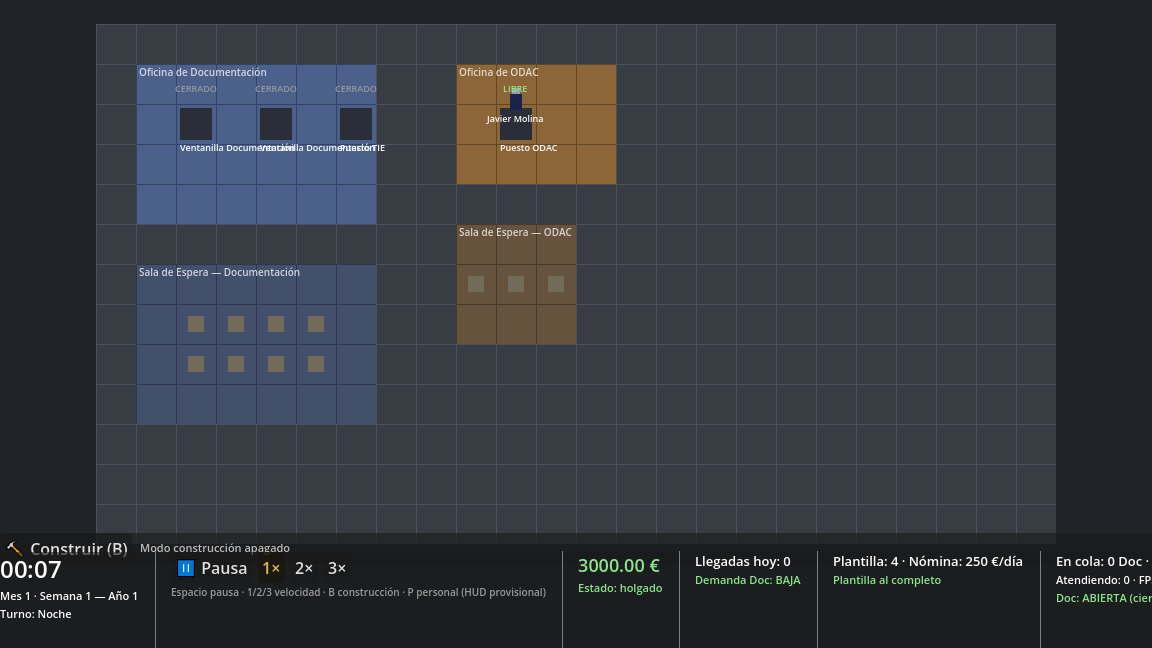
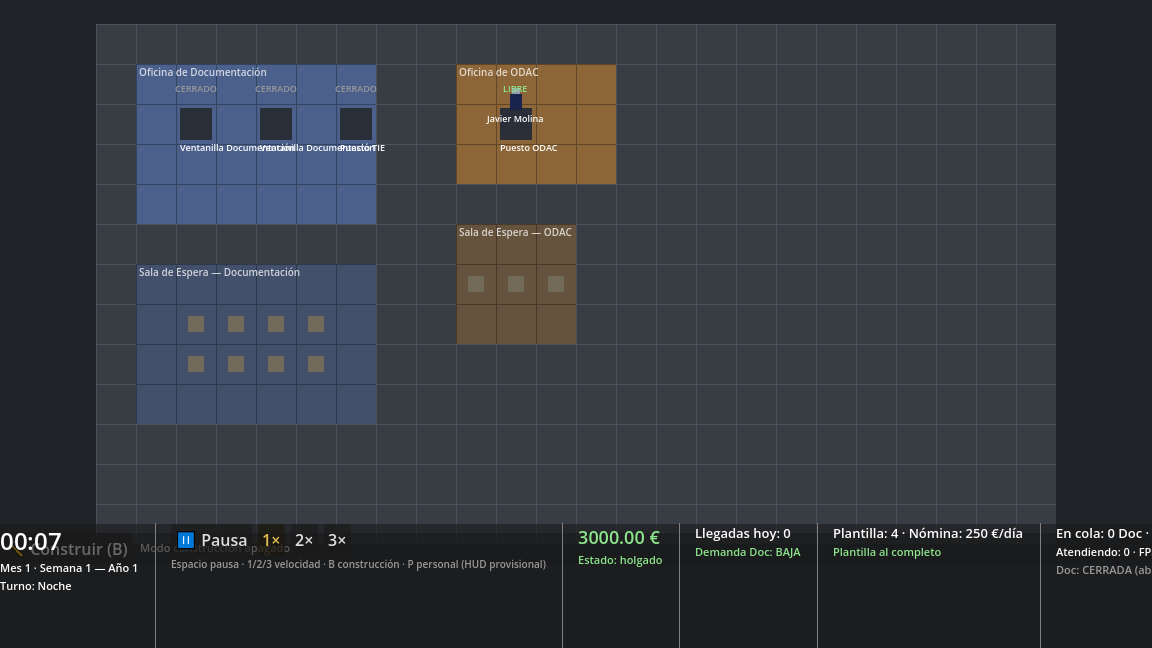
docs(sesion): estado del epic Documentacion 4/5 + hallazgo del perfil de tarde

Changed region(s): [[0.0, 0.8025, 1.0, 0.9568]]

diff --git a/production/session-state/active.md b/production/session-state/active.md
@@ -1,11 +1,11 @@
 # Estado de sesión — activo
 
-*Última actualización: 2026-07-25*
+*Última actualización: 2026-07-26*
 
 <!-- STATUS -->
 Epic: Documentación #8 (capa Feature — Sprint 3)
 Feature: Horario configurable + peonada
-Task: C3-6 crear stories → C3-7 implementar (migrar el horario desde Flujo)
+Task: C3-7 implementado 4/5 · falta sign-off del panel (005) → C3-8 demo → C3-9 cierre
 <!-- /STATUS -->
 
 ## 🎉🎉🎉 HITO — GATE Pre-Production → **PRODUCTION** (2026-07-22)
@@ -1501,3 +1501,50 @@ Economía (regla propiedad/E7/F1/interacciones/deps/OpenQ1 actualizados). Nuevos
 <!-- CONSISTENCY-CHECK: 2026-07-21 | GDDs checked: 9 (+odac) | Conflicts found: 6 stale (propagados) | Verdict: PASS (tras propagar) -->
 ✅ `/consistency-check` (2026-07-21, 7ª): **PASS tras propagar**. Cerrado ODAC #9 (9/12). El cambio de ancla ODAC (dur. media 28→**29,75≈30**, throughput 34→**32**, cap 137→**128**) dejó **6 referencias obsoletas** que la skill cazó y se **propagaron**: Flujo F3 (4×32=128), Demanda F5 + AC-DM12 (128), ODAC Tuning (128), Datos F8 (960/30≈32) + AC-D12 (≈30→128). Nueva constante **`mult_nocturno_odac`** (0.5, escalable) registrada (source Demanda; ref Demanda/ODAC/Tiempo) y sustituye el "~10 fijo". Mezcla ODAC F3 = 13 tipos (Σ=1.0). Registro `last_updated`→2026-07-21. Grep final: 0 restos de 137/34/28 en GDD/registro. **9 GDD consistentes.**
 <!-- QA-PLAN: 2026-07-24 | System: sprint-2 (Construccion+Flujo) | Plan written: production/qa/qa-plan-sprint-2.md -->
+
+---
+
+## 🕐 EPIC DOCUMENTACIÓN #8 — 4/5 STORIES CERRADAS + PANEL EN VENTANA (2026-07-26, sesión Opus 5)
+
+**Suite 485/485, exit 0** (423 → 485, +62). Arranque headless limpio. Todo commiteado (`82c78b1`).
+**C3-6 HECHA** (5 stories escritas, commit `8d4fd2f`) · **C3-7 casi hecha** (falta el sign-off de la 005).
+
+- **001 · El servicio y su reloj** (commit `9039110`) — `src/feature/documentacion/` (2º sistema de la
+  capa Feature): F3 última admisión, F1 pura de horas extra, `estado_servicio` (abierto/cerrando/
+  cerrado), tope de la División y la política de cita (MVP sin cita). Config `.tres` con 6 knobs.
+  22 tests. *El test cazó una expectativa mía mal calculada, no un fallo del código.*
+- **002 · 🚚 LA MUDANZA** (commit `0879d28`) — **la deuda del Sprint 2 está saldada**: el horario ya no
+  vive prestado en Flujo. Documentación lo POSEE, Flujo lo EJECUTA (`fijar_horario_doc`) y Demanda lo
+  RESPETA (`fijar_ventana_doc`). Los knobs salieron de `ConfigFlujo`/`ConfigDemanda` (fuente única).
+  🚦 **La red de seguridad aguantó**: `flujo_horario_test` (3) y `demanda_tick_ventana_test` (6) verdes
+  **sin tocarlos**. 11 tests nuevos.
+  - **Decisión**: Demanda recibe la **última admisión** como fin de ventana (no el cierre): fabricar a
+    alguien que encontraría la puerta cerrada al llegar es demanda imposible de atender.
+  - **Agujero cerrado**: `puerta_doc_abierta()` ahora comprueba también la apertura (antes, a las
+    03:00, admitía trámites de Doc).
+  - 🐛 *Un test ajeno se rompió y era señal*: `flujo_atencion_test` creaba su reloj sin hora (00:00) y
+    dejó de poder admitir. El gotcha de siempre; arreglado poniendo el reloj a las 08:20.
+- **003 · La peonada** (commit `0093064`) — **la peonada cambió de significado** (aprobado por el
+  usuario): se paga por **ampliar el horario** (DO4), no por los rezagados; terminar fuera de hora
+  cuesta **moral** (−1 de motivación, suelo 1, una vez por agente y día). **Hook provisional de Flujo
+  RETIRADO**. Cierre del día en prioridad **15** (Paciencia 10 → **Doc 15** → Economía 20: si fuera
+  después, la peonada se cobraría un día tarde). `Personal.agentes_dotados_en_servicio()` nuevo.
+  16 tests.
+- **004 · Eventos de la División + guardado** (commit `0093064`+) — TR-doc-002 cerrado. Esquema nuevo
+  `EventoDivision` + `datos/eventos/` con 2 comunicados (**vacaciones** meses 7–8 → pasaporte 21:30;
+  **colapso_extranjeria** mes 2 → TIE 21:30), deterministas por mes. Señal `aviso_division` en el bus.
+  `save()`/`load_state()` + grupo Persist. **El save guarda las DECISIONES, no el marco** (el horario
+  base y los topes se releen del catálogo → un reequilibrado futuro llega a las partidas guardadas).
+  13 tests **a la primera**. Catálogo: **32 recursos** (antes 30).
+- **005 · Panel del horario (tecla H)** (commit `82c78b1`) — **IMPLEMENTADO, EN VENTANA, PENDIENTE DE
+  SIGN-OFF**: slider de cierre con la peonada en vivo, última admisión, semáforo de demanda con icono
+  + texto + consejo, bandeja de comunicados, estado ABIERTA/CERRANDO/CERRADA. Botón en la botonera.
+
+**⚠ HALLAZGO DE DISEÑO ANOTADO (no resuelto — para la demo C3-8):** el perfil intradía de Demanda
+(`perfil_hora_doc`) solo tiene peso de 8 a 14 y **suma 1.0** (AC-DM03a). Es decir: **ampliar el
+horario no trae gente nueva por la tarde**; sirve para **vaciar la cola acumulada**, que es justo lo
+que dice el GDD (DO4). Si en la demo se ve que ni con demanda ALTA queda cola suficiente para que la
+peonada compense, la palanca es añadir franjas de tarde como demanda **extra** (sin renormalizar, para
+no tocar los 45/día calibrados) — es la Open Question nº1 del GDD.
+
+**PENDIENTE: sign-off de la 005 → C3-9 (cierre formal del epic) → C3-13 (epic ODAC #9, Sprint 4).**
